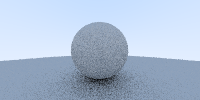
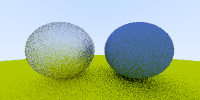
metal

diff --git a/src/scene/simple_scene.rs b/src/scene/simple_scene.rs
@@ -1,0 +1,213 @@
+use crate::rayt::*;
+
+pub struct SimpleScene {
+    world: ShapeList,
+}
+
+impl SimpleScene {
+    pub fn new() -> Self {
+        let mut world = ShapeList::new();
+        world.push(Box::new(Sphere::new(
+            Float3::new(0.6, 0.0, -1.0),
+            0.5,
+            Arc::new(Lambertian::new(Color::new(0.1, 0.2, 0.5))),
+        )));
+        world.push(Box::new(Sphere::new(
+            Float3::new(-0.6, 0.0, -1.0),
+            0.5,
+            Arc::new(Metal::new(Color::new(0.8, 0.8, 0.8), 1.0)),
+        )));
+        world.push(Box::new(Sphere::new(
+            Float3::new(0.0, -100.5, -1.0),
+            100.0,
+            Arc::new(Lambertian {
+                albedo: Color::new(0.8, 0.8, 0.0),
+            }),
+        )));
+
+        Self { world }
+    }
+
+    fn background_color(&self, d: Float3) -> Color {
+        let t = 0.5 * (d.normalize().y() + 1.0);
+        Color::one().lerp(Color::new(0.5, 0.7, 1.0), t)
+    }
+}
+
+impl SceneWithDepth for SimpleScene {
+    fn camera(&self) -> Camera {
+        Camera::new(
+            Float3::new(4.0, 0.0, 0.0),
+            Float3::new(0.0, 2.0, 0.0),
+            Float3::new(-2.0, -1.0, -1.0),
+        )
+    }
+
+    fn trace(&self, ray: Ray, depth: usize) -> Color {
+        if let Some(hit) = self.world.hit(&ray, 0.001, f64::MAX) {
+            let scatter_result = if depth > 0 {
+                hit.m.scatter(&ray, &hit)
+            } else {
+                None
+            };
+            if let Some(scatter_info) = scatter_result {
+                self.trace(scatter_info.ray, depth - 1) * scatter_info.albedo
+            } else {
+                Color::zero()
+            }
+        } else {
+            self.background_color(ray.direction)
+        }
+    }
+}
+
+struct Sphere {
+    center: Float3,
+    radius: f64,
+    material: Arc<dyn Material>,
+}
+
+impl Sphere {
+    fn new(center: Float3, radius: f64, material: Arc<dyn Material>) -> Self {
+        Self {
+            center,
+            radius,
+            material,
+        }
+    }
+}
+
+impl Shape for Sphere {
+    fn hit(&self, ray: &Ray, t0: f64, t1: f64) -> Option<HitInfo> {
+        let oc = ray.origin - self.center;
+        let d = ray.direction;
+        let a = d.length_squared();
+        let b = 2.0 * d.dot(oc);
+        let c = oc.length_squared() - self.radius * self.radius;
+        let d = b * b - 4.0 * a * c;
+        if d > 0.0 {
+            let d_sqrt = d.sqrt();
+            let t = (-b - d_sqrt) / (2.0 * a);
+            if t0 < t && t < t1 {
+                let p = ray.at(t);
+                let n = (p - self.center) / self.radius;
+                let hit = HitInfo::new(t, p, n, Arc::clone(&self.material));
+                return Some(hit);
+            }
+
+            let t = (-b + d_sqrt) / (2.0 * a);
+            if t0 < t && t < t1 {
+                let p = ray.at(t);
+                let n = (p - self.center) / self.radius;
+                let hit = HitInfo::new(t, p, n, Arc::clone(&self.material));
+                return Some(hit);
+            }
+        }
+        None
+    }
+}
+
+struct ShapeList {
+    pub objects: Vec<Box<dyn Shape>>,
+}
+
+impl ShapeList {
+    pub fn new() -> Self {
+        ShapeList {
+            objects: Vec::new(),
+        }
+    }
+
+    pub fn push(&mut self, object: Box<dyn Shape>) {
+        self.objects.push(object);
+    }
+}
+
+impl Shape for ShapeList {
+    fn hit(&self, ray: &Ray, t0: f64, t1: f64) -> Option<HitInfo> {
+        let mut hit_info: Option<HitInfo> = None;
+        let mut closest_so_far = t1;
+
+        for object in &(self.objects) {
+            if let Some(info) = object.hit(ray, t0, closest_so_far) {
+                closest_so_far = info.t;
+                hit_info = Some(info);
+            }
+        }
+
+        hit_info
+    }
+}
+
+pub struct HitInfo {
+    pub t: f64,
+    pub p: Float3,
+    pub n: Float3,
+    pub m: Arc<dyn Material>,
+}
+
+impl HitInfo {
+    fn new(t: f64, p: Float3, n: Float3, m: Arc<dyn Material>) -> Self {
+        HitInfo { t, p, n, m }
+    }
+}
+
+pub trait Shape: Sync {
+    fn hit(&self, ray: &Ray, t0: f64, t1: f64) -> Option<HitInfo>;
+}
+
+pub trait Material: Sync + Send {
+    fn scatter(&self, ray: &Ray, hit: &HitInfo) -> Option<ScatterInfo>;
+}
+
+pub struct ScatterInfo {
+    ray: Ray,
+    albedo: Color,
+}
+
+impl ScatterInfo {
+    pub fn new(ray: Ray, albedo: Color) -> Self {
+        Self { ray, albedo }
+    }
+}
+
+struct Lambertian {
+    albedo: Color,
+}
+
+impl Lambertian {
+    fn new(albedo: Color) -> Self {
+        Lambertian { albedo }
+    }
+}
+
+impl Material for Lambertian {
+    fn scatter(&self, _ray: &Ray, hit: &HitInfo) -> Option<ScatterInfo> {
+        let r = hit.n + Float3::random_in_unit_sphere();
+        let r = Ray::new(hit.p, r);
+        Some(ScatterInfo::new(r, self.albedo))
+    }
+}
+
+struct Metal {
+    albedo: Color,
+    fuzz: f64,
+}
+
+impl Metal {
+    fn new(albedo: Color, fuzz: f64) -> Self {
+        Self { albedo, fuzz }
+    }
+}
+
+impl Material for Metal {
+    fn scatter(&self, ray: &Ray, hit: &HitInfo) -> Option<ScatterInfo> {
+        let mut reflected = ray.direction.normalize().reflect(hit.n);
+        reflected = reflected + Vec3::random_in_unit_sphere() * self.fuzz;
+        if reflected.dot(hit.n) > 0.0 {
+            Some(ScatterInfo::new(Ray::new(hit.p, reflected), self.albedo))
+        } else {
+            None
+        }
+    }
+}

diff --git a/src/rayt/render.rs b/src/rayt/render.rs
@@ -8,8 +8,9 @@ const OUTPUT_FILE_NAME: &str = "render.png";
 const BACKUP_FILE_NAME: &str = "render_bak.png";
 const IMAGE_WIDTH: u32 = 200;
 const IMAGE_HEIGHT: u32 = 100;
-const SAMPLES_PER_PIXEL: usize = 8;
+const SAMPLES_PER_PIXEL: usize = 10;
 const GAMMA_FACTOR: f64 = 2.2;
+const MAX_RAY_BOUNCE_DEPTH: usize = 50;
 
 pub fn backup() {
     let output_path = Path::new(OUTPUT_FILE_NAME);
@@ -22,6 +23,23 @@ pub fn backup() {
 pub trait Scene {
     fn camera(&self) -> Camera;
     fn trace(&self, ray: Ray) -> Color;
+    fn width(&self) -> u32 {
+        IMAGE_WIDTH
+    }
+    fn height(&self) -> u32 {
+        IMAGE_HEIGHT
+    }
+    fn aspect(&self) -> f64 {
+        self.width() as f64 / self.height() as f64
+    }
+    fn spp(&self) -> usize {
+        SAMPLES_PER_PIXEL
+    }
+}
+
+pub trait SceneWithDepth {
+    fn camera(&self) -> Camera;
+    fn trace(&self, ray: Ray, depth: usize) -> Color;
     fn width(&self) -> u32 {
         IMAGE_WIDTH
     }
@@ -59,7 +77,7 @@ pub fn render(scene: impl Scene + Sync) {
     draw_in_window(BACKUP_FILE_NAME, img).unwrap();
 }
 
-pub fn render_aa(scene: impl Scene + Sync) {
+pub fn render_aa(scene: impl SceneWithDepth + Sync) {
     backup();
 
     let camera = scene.camera();
@@ -73,7 +91,7 @@ pub fn render_aa(scene: impl Scene + Sync) {
                 let u = (*x as f64 + rx) / (scene.width() - 1) as f64;
                 let v = ((scene.height() - *y - 1) as f64 + ry) / (scene.height() - 1) as f64;
                 let ray = camera.ray(u, v);
-                acc + scene.trace(ray)
+                acc + scene.trace(ray, MAX_RAY_BOUNCE_DEPTH)
             });
 
             pixel_color /= scene.spp() as f64;

diff --git a/src/rayt/float3.rs b/src/rayt/float3.rs
@@ -140,6 +140,12 @@ impl Float3 {
     pub fn lerp(&self, v: Self, t: f64) -> Self {
         *self + (v - *self) * t
     }
+
+    // normalは長さ１
+    // selfは入射する向き
+    pub fn reflect(&self, normal: Self) -> Self {
+        *self - normal * 2.0 * self.dot(normal)
+    }
 }
 
 // イテレータから作る

diff --git a/src/main.rs b/src/main.rs
@@ -1,10 +1,11 @@
 #![allow(dead_code)]
 
 mod rayt;
-mod simple_scene;
+mod scene;
 
 use crate::rayt::*;
-use crate::simple_scene::SimpleScene;
+use crate::scene::*;
+
 fn main() {
     render_aa(SimpleScene::new());
 }

diff --git a/src/rayt/mod.rs b/src/rayt/mod.rs
@@ -15,3 +15,4 @@ pub use self::ray::Ray;
 pub use self::camera::Camera;
 pub use self::window::*;
 pub use self::render::*;
+pub use std::sync::Arc;

diff --git a/src/scene/mod.rs b/src/scene/mod.rs
@@ -1,0 +1,2 @@
+mod simple_scene;
+pub use self::simple_scene::*;
